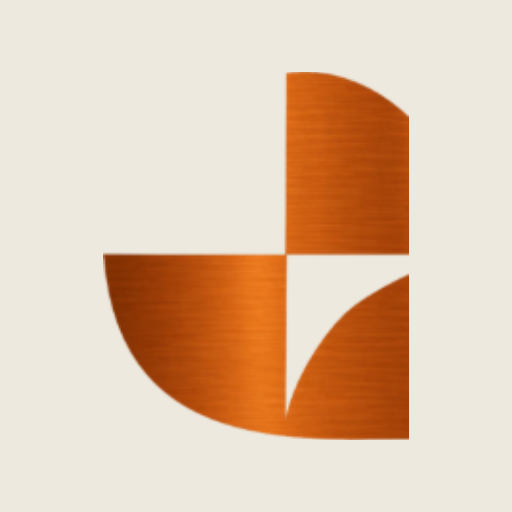
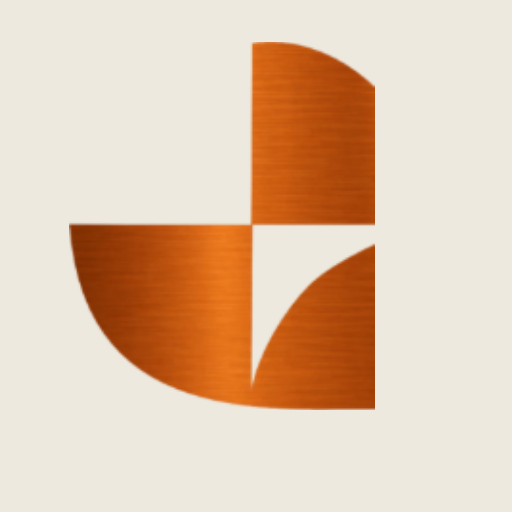
Ícones: centralizados pelo peso do símbolo, não pela caixa (#158)
"arruma pra nós o favicon do Perspecta Creator, que ele está errado, e o
ícone que fica na tela do computador quando a gente instala o aplicativo,
que ele está descentralizado."

A causa não era a óbvia. Medi os ícones antigos: as margens eram IGUAIS
dos dois lados — já estavam centralizados pela caixa. Minha primeira
versão só refez o mesmo enquadramento e não mudou nada.

O que desequilibra é a forma do símbolo. O quadrante vazio dele fica em
cima à esquerda, então o peso cai embaixo à direita: medido, o centro de
massa da tinta está 11,2% da largura à direita e 8,1% da altura abaixo do
meio do quadro. Centralizado pela caixa, parece torto; é o olho que está
certo, não a régua.

Agora a centralizagem é óptica: o símbolo entra deslocado o tanto que o
peso dele pede, e as margens ficam de propósito diferentes.

Três coisas que vieram junto:

· virou script (scripts/gerar-icones.mjs), com a regra escrita. Antes era
  recorte na mão, e é por isso que ninguém tinha percebido;
· cada tamanho tem a folga que o uso pede — favicon quase sem folga
  porque é lido a 16px; maskable bem menor, porque o sistema recorta e só
  garante os 80% centrais;
· o empurrão não pode encostar na borda. Com 88% de ocupação o favicon
  saiu pela borda de cima, e marca cortada parece defeito: o script
  diminui sozinho até sobrar margem nos quatro lados (favicon ficou 78%).

E o service worker foi para a v4. Sem isso nada disso chegaria: estático é
[…]

Changed region(s): [[0.125, 0.0625, 0.8125, 0.875], [0.5938, 0.375, 0.625, 0.4062]]

diff --git a/client/public/sw.js b/client/public/sw.js
@@ -1,12 +1,13 @@
 // Service worker mínimo: deixa o app instalável e responde offline com uma
 // mensagem clara em vez de erro do navegador. Nada de cachear a API — dados
 // desatualizados numa ferramenta de trabalho confundem mais do que ajudam.
-// v3: os ícones do app mudaram (deixaram de ser o "P" de remendo e passaram a
-// ser a marca). Os estáticos são servidos do cache PRIMEIRO, e o caminho do
-// ícone não leva hash — sem virar a versão, o celular de quem já instalou o app
-// continuaria mostrando o ícone velho para sempre. Ao ativar, o cache antigo é
-// apagado inteiro.
-const CACHE = "perspecta-v3";
+// v4: os ícones foram refeitos, agora centralizados pelo PESO do símbolo (o
+// quadrante vazio dele puxa a marca para baixo e para a direita). Os estáticos
+// são servidos do cache PRIMEIRO, e o caminho do ícone não leva hash — sem
+// virar a versão, o celular e o computador de quem já instalou o app
+// continuariam mostrando o ícone velho para sempre. Ao ativar, o cache antigo
+// é apagado inteiro.
+const CACHE = "perspecta-v4";
 // Não pré-cacheamos o index.html: ele muda a cada publicação e precisa vir
 // sempre da rede, senão o app abre uma versão velha.
 const SHELL = ["/manifest.webmanifest"];
